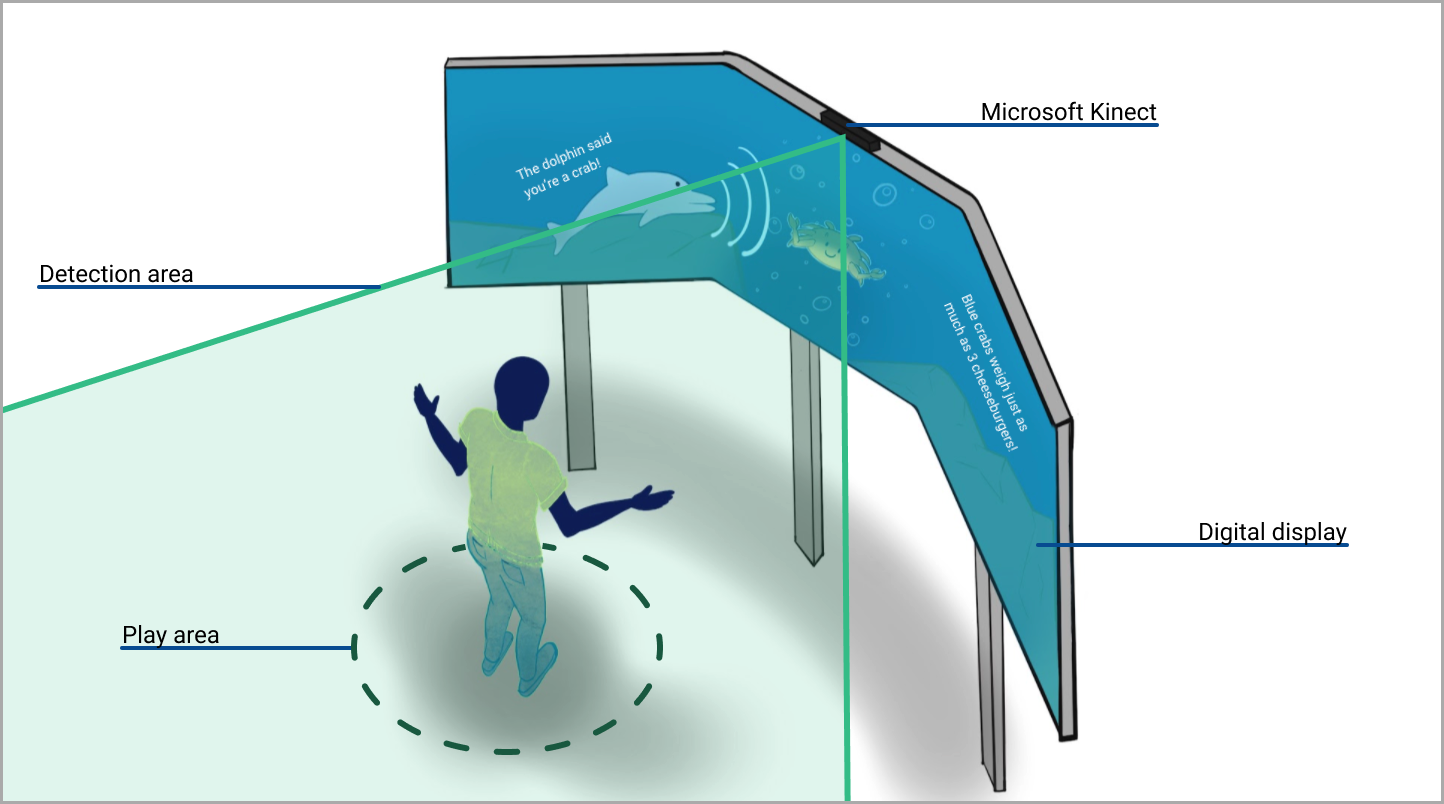
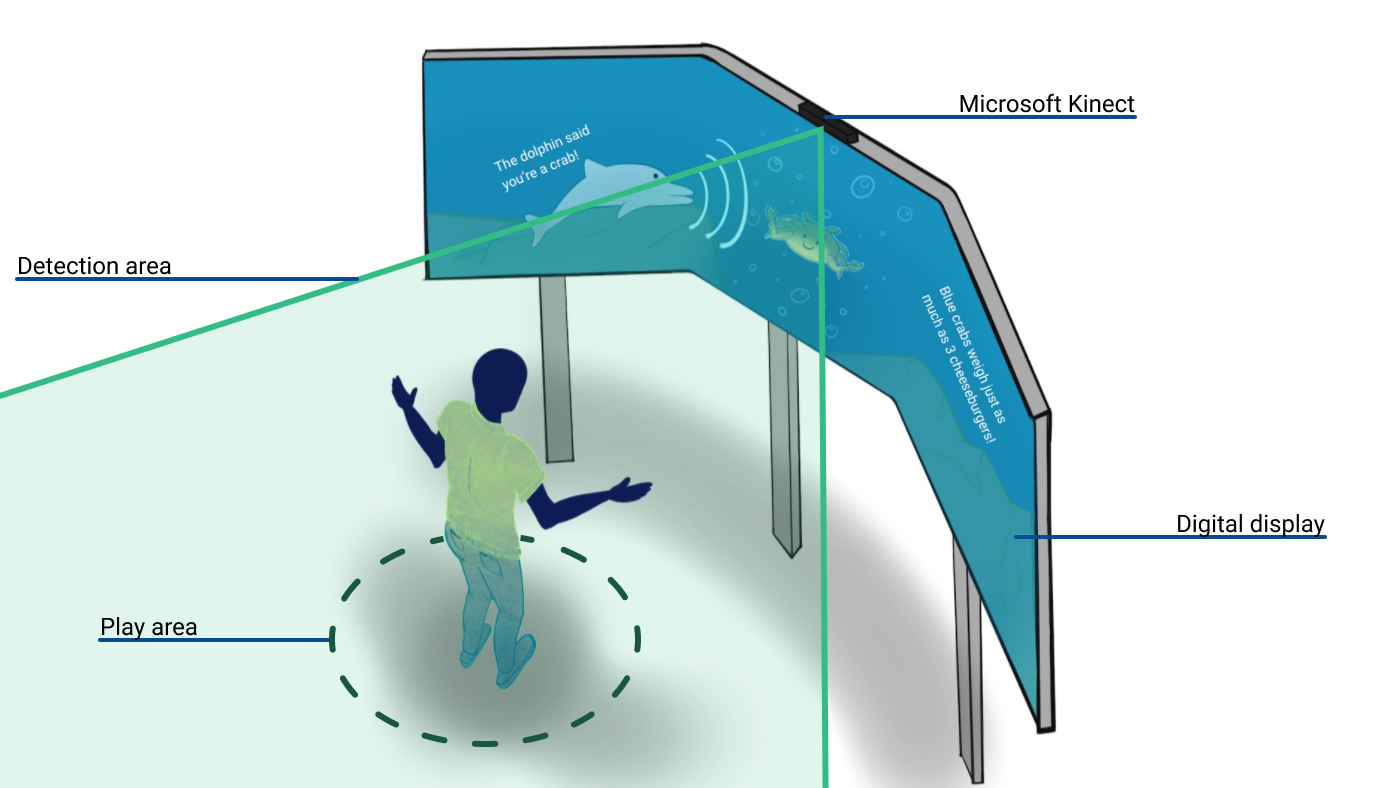
Regroup the closing clips, trim the diagram frame, unify corner radii
Moves the octopus and crab transforms into the grid below the Kinect
system diagram, so the page now ends on the quote before credits.

The diagram carried a thin grey frame on all four edges; cropped to
1400x788, which also lands it on a true 16:9 and removes the slight
cover-crop the bento cell was applying. Frontmatter dimensions updated
to match — a stale width/height there would have reintroduced the
squash the ratio fix just removed.

Feature media was 12px while bento cells were 24px, so photographs on
the same page carried two different corner treatments. Both are now
--radius-lg. That leaves --radius-md unused; its token comment (and
--radius-lg's) had already drifted from the CSS, so both are corrected
rather than removed, in case a smaller radius is wanted later.

diff --git a/src/styles/global.css b/src/styles/global.css
@@ -49,8 +49,8 @@
                  .project-panel-body p · .about-prose p · .cv-role-desc
      ─────────────────────────────────────────────────────────── */
   --radius-sm: 4px;    /* tags, CTAs, small UI — replaces 2px, 3px, 4px, 5px */
-  --radius-md: 12px;   /* block components: bento, feature, credits */
-  --radius-lg: 24px;   /* hero images */
+  --radius-md: 12px;   /* unused — imagery standardised on --radius-lg */
+  --radius-lg: 24px;   /* all imagery (bento cells, feature media) + credits */
   --space-section: 5rem; /* gap between major sections (header, body sections) */
   --space-block: 2rem;   /* gap between related blocks within a section (meta→hero, feature→feature) */
   --grid-gap: 1.5rem;
@@ -1344,7 +1344,10 @@ figcaption a:hover {
 }
 
 .block-feature-image {
-  border-radius: var(--radius-md); /* PASS: normalized to --radius-sm/md/lg */
+  /* --radius-lg, matching .block-bento-cell — imagery carries one corner
+     radius everywhere, so features and bento cells on the same page don't
+     read as two different treatments. */
+  border-radius: var(--radius-lg);
   overflow: hidden;
 }
 
